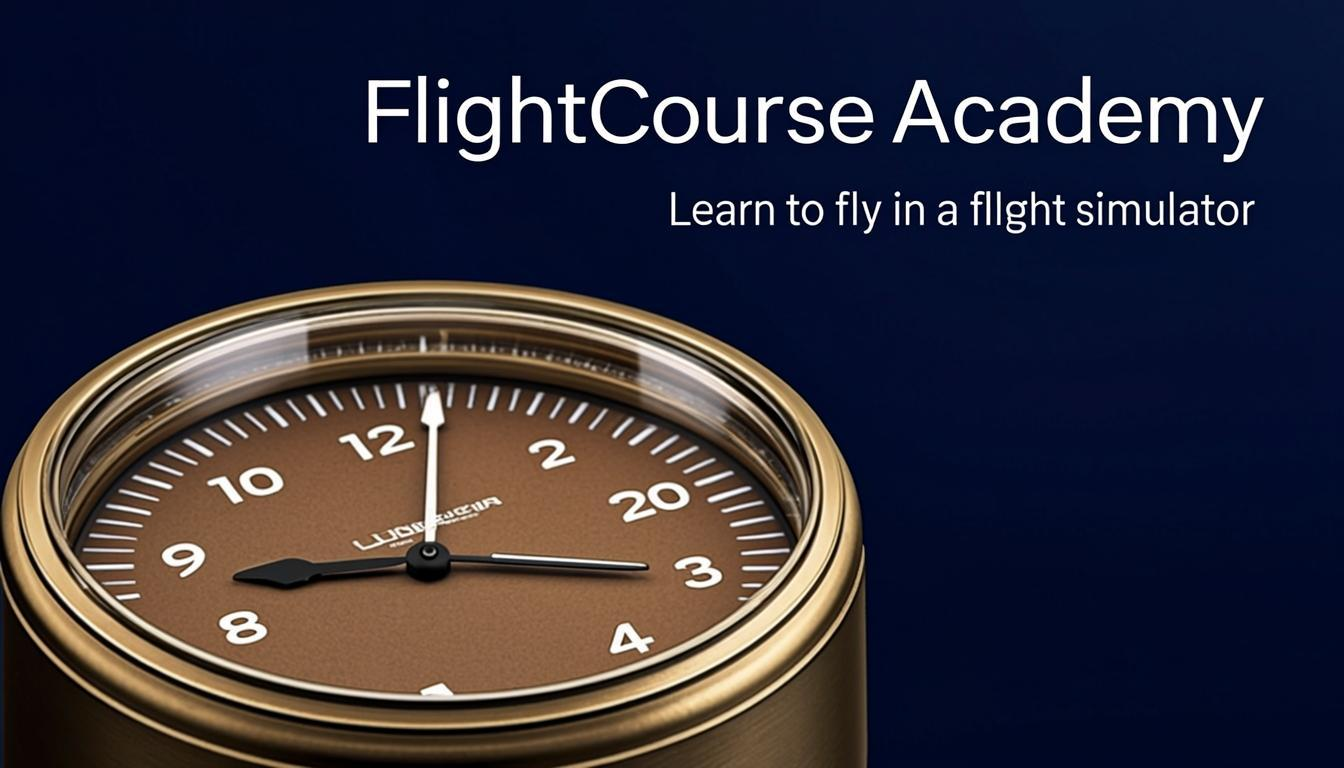
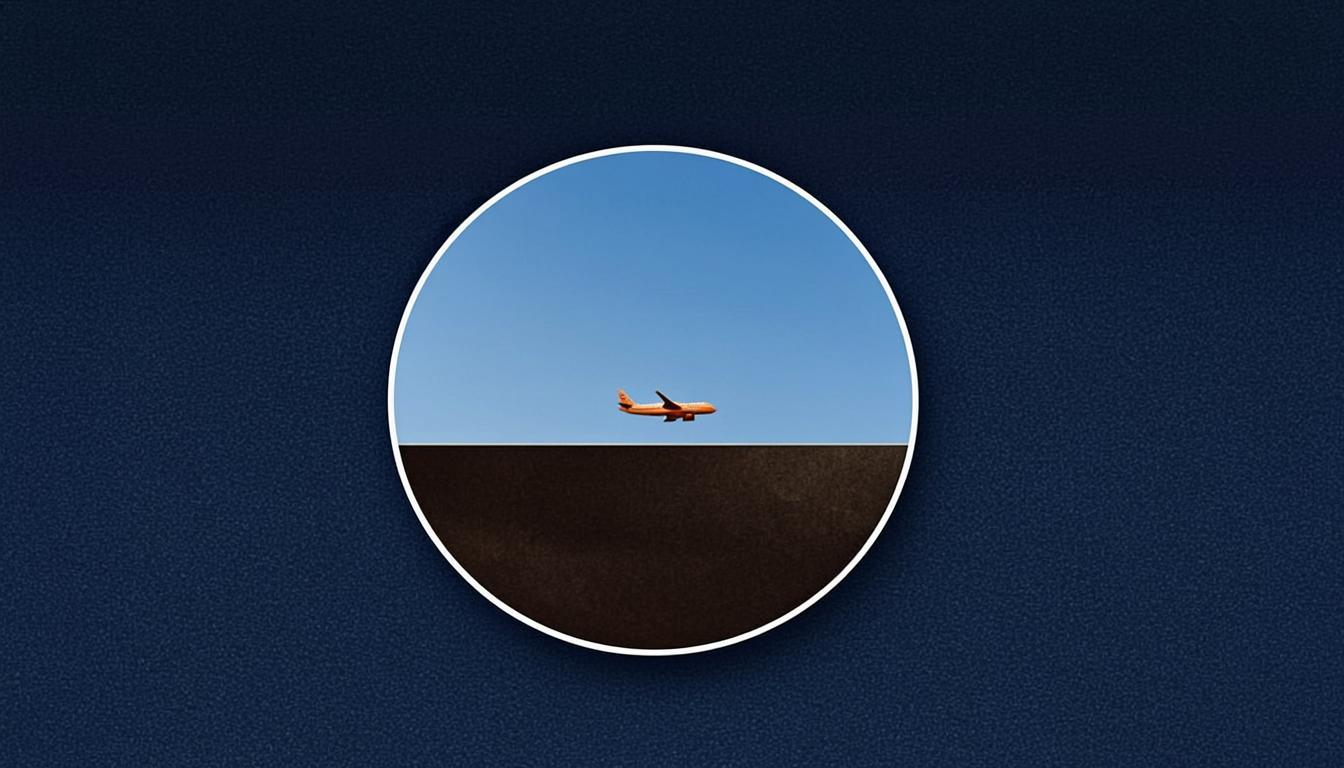
bcbf3cc3-1ff0-4fa0-a90a-0c641be1e2d0

diff --git a/src/components/views/progress-view.tsx b/src/components/views/progress-view.tsx
@@ -44,70 +44,227 @@ export function ProgressView() {
   function generateCertificate() {
     const name = certificateName || "Student Pilot";
     const date = new Date().toLocaleDateString("en-US", { year: "numeric", month: "long", day: "numeric" });
-    const w = 1200, h = 850;
+    const w = 1400, h = 1000;
     const canvas = document.createElement("canvas");
     canvas.width = w;
     canvas.height = h;
     const ctx = canvas.getContext("2d");
     if (!ctx) return;
 
-    // Background
-    ctx.fillStyle = "#0b1220";
+    const cx = w / 2;
+
+    // ═══ BACKGROUND ═══
+    // Deep navy with subtle radial vignette
+    const bgGrad = ctx.createRadialGradient(cx, h / 2, 200, cx, h / 2, 800);
+    bgGrad.addColorStop(0, "#0f1828");
+    bgGrad.addColorStop(1, "#080d18");
+    ctx.fillStyle = bgGrad;
     ctx.fillRect(0, 0, w, h);
 
-    // Border
-    ctx.strokeStyle = "#F2B134";
-    ctx.lineWidth = 3;
-    ctx.strokeRect(40, 40, w - 80, h - 80);
+    // ═══ BORDER SYSTEM ═══
+    // Outer thin border
+    ctx.strokeStyle = "rgba(242, 177, 52, 0.25)";
     ctx.lineWidth = 1;
-    ctx.strokeRect(55, 55, w - 110, h - 110);
+    ctx.strokeRect(50, 50, w - 100, h - 100);
 
-    // Title
+    // Inner thicker border
+    ctx.strokeStyle = "rgba(242, 177, 52, 0.5)";
+    ctx.lineWidth = 2;
+    ctx.strokeRect(65, 65, w - 130, h - 130);
+
+    // Innermost hairline
+    ctx.strokeStyle = "rgba(242, 177, 52, 0.15)";
+    ctx.lineWidth = 0.5;
+    ctx.strokeRect(75, 75, w - 150, h - 150);
+
+    // Corner ornaments (subtle L-shaped marks)
+    ctx.strokeStyle = "rgba(242, 177, 52, 0.4)";
+    ctx.lineWidth = 1.5;
+    const cornerLen = 30;
+    const cornerOff = 65;
+    // Top-left
+    ctx.beginPath();
+    ctx.moveTo(cornerOff, cornerOff + cornerLen);
+    ctx.lineTo(cornerOff, cornerOff);
+    ctx.lineTo(cornerOff + cornerLen, cornerOff);
+    ctx.stroke();
+    // Top-right
+    ctx.beginPath();
+    ctx.moveTo(w - cornerOff - cornerLen, cornerOff);
+    ctx.lineTo(w - cornerOff, cornerOff);
+    ctx.lineTo(w - cornerOff, cornerOff + cornerLen);
+    ctx.stroke();
+    // Bottom-left
+    ctx.beginPath();
+    ctx.moveTo(cornerOff, h - cornerOff - cornerLen);
+    ctx.lineTo(cornerOff, h - cornerOff);
+    ctx.lineTo(cornerOff + cornerLen, h - cornerOff);
+    ctx.stroke();
+    // Bottom-right
+    ctx.beginPath();
+    ctx.moveTo(w - cornerOff - cornerLen, h - cornerOff);
+    ctx.lineTo(w - cornerOff, h - cornerOff);
+    ctx.lineTo(w - cornerOff, h - cornerOff - cornerLen);
+    ctx.stroke();
+
+    // ═══ HEADER ═══
+    // Small attitude indicator mark (simplified)
+    const markY = 145;
+    const markR = 22;
+    ctx.save();
+    ctx.translate(cx, markY);
+    // Bezel
+    ctx.beginPath();
+    ctx.arc(0, 0, markR, 0, Math.PI * 2);
+    ctx.fillStyle = "#111927";
+    ctx.fill();
+    ctx.strokeStyle = "rgba(242, 177, 52, 0.4)";
+    ctx.lineWidth = 1;
+    ctx.stroke();
+    // Sky half
+    ctx.beginPath();
+    ctx.arc(0, 0, markR - 3, Math.PI, 0);
+    ctx.closePath();
+    ctx.fillStyle = "rgba(62, 146, 204, 0.3)";
+    ctx.fill();
+    // Ground half
+    ctx.beginPath();
+    ctx.arc(0, 0, markR - 3, 0, Math.PI);
+    ctx.closePath();
+    ctx.fillStyle = "rgba(107, 91, 61, 0.3)";
+    ctx.fill();
+    // Horizon line
+    ctx.beginPath();
+    ctx.moveTo(-markR + 3, 0);
+    ctx.lineTo(markR - 3, 0);
+    ctx.strokeStyle = "rgba(255, 255, 255, 0.6)";
+    ctx.lineWidth = 1;
+    ctx.stroke();
+    // Aircraft symbol
+    ctx.beginPath();
+    ctx.moveTo(-8, 1);
+    ctx.lineTo(-2, 0);
+    ctx.moveTo(2, 0);
+    ctx.lineTo(8, -1);
+    ctx.strokeStyle = "#F2B134";
+    ctx.lineWidth = 1.5;
+    ctx.stroke();
+    ctx.beginPath();
+    ctx.arc(0, 0, 1.5, 0, Math.PI * 2);
     ctx.fillStyle = "#F2B134";
-    ctx.font = "bold 48px sans-serif";
+    ctx.fill();
+    ctx.restore();
+
+    // Brand name
+    ctx.fillStyle = "#E9E7E0";
+    ctx.font = "600 28px 'Instrument Sans', sans-serif";
     ctx.textAlign = "center";
-    ctx.fillText("FlightCourse Academy", w / 2, 180);
+    ctx.fillText("FlightCourse Academy", cx, markY + 50);
 
-    ctx.fillStyle = "#8B8F99";
-    ctx.font = "18px monospace";
-    ctx.fillText("FLIGHT SIMULATION TRAINING CERTIFICATE", w / 2, 220);
+    // Subtitle
+    ctx.fillStyle = "rgba(139, 143, 153, 0.7)";
+    ctx.font = "400 11px 'JetBrains Mono', monospace";
+    ctx.fillText("FLIGHT SIMULATION GROUND SCHOOL", cx, markY + 72);
 
-    // "Certificate of Completion"
+    // ═══ DIVIDER ═══
+    const divY = 260;
+    ctx.beginPath();
+    ctx.moveTo(cx - 120, divY);
+    ctx.lineTo(cx - 20, divY);
+    ctx.moveTo(cx + 20, divY);
+    ctx.lineTo(cx + 120, divY);
+    ctx.strokeStyle = "rgba(242, 177, 52, 0.3)";
+    ctx.lineWidth = 0.5;
+    ctx.stroke();
+    // Center dot
+    ctx.beginPath();
+    ctx.arc(cx, divY, 3, 0, Math.PI * 2);
+    ctx.fillStyle = "rgba(242, 177, 52, 0.5)";
+    ctx.fill();
+
+    // ═══ CERTIFICATE TITLE ═══
     ctx.fillStyle = "#E9E7E0";
-    ctx.font = "36px serif";
-    ctx.fillText("Certificate of Completion", w / 2, 320);
+    ctx.font = "400 42px Georgia, serif";
+    ctx.fillText("Certificate of Completion", cx, 330);
 
-    // "This certifies that"
-    ctx.fillStyle = "#8B8F99";
-    ctx.font = "20px sans-serif";
-    ctx.fillText("This certifies that", w / 2, 400);
+    // ═══ "This is to certify that" ═══
+    ctx.fillStyle = "rgba(139, 143, 153, 0.8)";
+    ctx.font = "400 16px 'Instrument Sans', sans-serif";
+    ctx.fillText("This is to certify that", cx, 400);
 
-    // Name
+    // ═══ NAME ═══
     ctx.fillStyle = "#F2B134";
-    ctx.font = "bold 52px serif";
-    ctx.fillText(name, w / 2, 470);
+    ctx.font = "600 56px Georgia, serif";
+    ctx.fillText(name, cx, 475);
 
-    // Description
+    // Underline beneath name
+    const nameWidth = ctx.measureText(name).width;
+    ctx.beginPath();
+    ctx.moveTo(cx - nameWidth / 2 - 20, 495);
+    ctx.lineTo(cx + nameWidth / 2 + 20, 495);
+    ctx.strokeStyle = "rgba(242, 177, 52, 0.2)";
+    ctx.lineWidth = 0.5;
+    ctx.stroke();
+
+    // ═══ DESCRIPTION ═══
     ctx.fillStyle = "#E9E7E0";
-    ctx.font = "20px sans-serif";
-    ctx.fillText("has successfully completed all 16 modules of the", w / 2, 540);
-    ctx.fillText("FlightCourse Academy ground-school curriculum", w / 2, 570);
-    ctx.fillText("from cold cockpit to IFR approaches.", w / 2, 600);
+    ctx.font = "400 18px 'Instrument Sans', sans-serif";
+    ctx.fillText("has successfully completed all 16 modules of the", cx, 555);
+    ctx.fillText("FlightCourse Academy ground-school curriculum,", cx, 583);
+    ctx.fillText("from cold cockpit startup through IFR approaches.", cx, 611);
 
-    // Date
-    ctx.fillStyle = "#8B8F99";
-    ctx.font = "16px monospace";
-    ctx.fillText(`Completed on ${date}`, w / 2, 680);
+    // ═══ STATS ROW ═══
+    const statsY = 680;
+    ctx.fillStyle = "rgba(139, 143, 153, 0.6)";
+    ctx.font = "400 11px 'JetBrains Mono', monospace";
+    ctx.fillText("MODULES COMPLETED", cx - 180, statsY);
+    ctx.fillText("XP EARNED", cx, statsY);
+    ctx.fillText("DATE", cx + 180, statsY);
 
-    // XP
-    ctx.fillText(`${xp} XP earned · ${completedCount} modules completed`, w / 2, 710);
+    ctx.fillStyle = "#E9E7E0";
+    ctx.font = "500 24px 'JetBrains Mono', monospace";
+    ctx.fillText("16 / 16", cx - 180, statsY + 30);
+    ctx.fillText(`${xp}`, cx, statsY + 30);
+    ctx.font = "400 14px 'Instrument Sans', sans-serif";
+    ctx.fillText(date, cx + 180, statsY + 28);
 
-    // Disclaimer
-    ctx.fillStyle = "#5a5e68";
-    ctx.font = "12px sans-serif";
-    ctx.fillText("For simulation training only — not a substitute for real-world flight instruction.", w / 2, 780);
+    // ═══ GOLD SEAL ═══
+    const sealY = 800;
+    const sealR = 35;
+    ctx.save();
+    ctx.translate(cx, sealY);
+    // Outer ring
+    ctx.beginPath();
+    ctx.arc(0, 0, sealR, 0, Math.PI * 2);
+    ctx.strokeStyle = "rgba(242, 177, 52, 0.4)";
+    ctx.lineWidth = 1.5;
+    ctx.stroke();
+    // Inner circle
+    ctx.beginPath();
+    ctx.arc(0, 0, sealR - 6, 0, Math.PI * 2);
+    ctx.fillStyle = "rgba(242, 177, 52, 0.08)";
+    ctx.fill();
+    ctx.strokeStyle = "rgba(242, 177, 52, 0.2)";
+    ctx.lineWidth = 0.5;
+    ctx.stroke();
+    // Star/diamond in center
+    ctx.beginPath();
+    ctx.moveTo(0, -12);
+    ctx.lineTo(4, 0);
+    ctx.lineTo(0, 12);
+    ctx.lineTo(-4, 0);
+    ctx.closePath();
+    ctx.fillStyle = "rgba(242, 177, 52, 0.6)";
+    ctx.fill();
+    ctx.restore();
 
-    // Download
+    // ═══ DISCLAIMER ═══
+    ctx.fillStyle = "rgba(90, 94, 104, 0.6)";
+    ctx.font = "400 11px 'Instrument Sans', sans-serif";
+    ctx.fillText("This certificate is for simulation training purposes only and does not constitute", cx, 880);
+    ctx.fillText("certification by the FAA or any aviation authority. Not a substitute for real-world flight instruction.", cx, 898);
+
+    // ═══ DOWNLOAD ═══
     const link = document.createElement("a");
     link.download = `FlightCourse-Certificate-${name.replace(/\s+/g, "-")}.png`;
     link.href = canvas.toDataURL("image/png");

diff --git a/worklog.md b/worklog.md
@@ -1163,3 +1163,40 @@ Stage Summary:
 - Amber color slightly brighter
 - All primary buttons have glass treatment
 - Site is feature-complete and ready for deployment
+
+---
+Task ID: V33-CERTIFICATE-PROFESSIONAL-REBUILD
+Agent: Main (Z.ai Code)
+Task: Research + rebuild certificate to be professional, not AI-slop
+
+RESEARCH:
+- Professional certificates use: consistent typography, clear visual hierarchy, brand colors with restraint, white space, clarity, credibility, structure
+- NOT: fancy borders, gold foil effects, busy decoration
+- Key: trust and authority through restraint
+
+CERTIFICATE REBUILD (from 1200x850 → 1400x1000, much more detailed):
+1. BACKGROUND: radial gradient (navy center → darker edges) for depth, not flat
+2. BORDER SYSTEM: 3 layers — outer thin (25% amber), inner thick (50% amber), innermost hairline (15%) — creates a proper framed look
+3. CORNER ORNAMENTS: L-shaped marks at all 4 corners (subtle, professional)
+4. HEADER: miniature attitude indicator mark (sky/ground/horizon/aircraft) + "FlightCourse Academy" in Instrument Sans + "FLIGHT SIMULATION GROUND SCHOOL" subtitle in mono
+5. DIVIDER: two lines flanking a center dot (professional separator)
+6. CERTIFICATE TITLE: "Certificate of Completion" in Georgia serif (classic, authoritative)
+7. NAME: in amber Georgia serif, 56px, with a subtle underline beneath
+8. DESCRIPTION: 3 lines, Instrument Sans, clear and professional
+9. STATS ROW: 3 columns (MODULES COMPLETED / XP EARNED / DATE) with mono labels + values
+10. GOLD SEAL: double-ring circle with diamond center — subtle, not gaudy
+11. DISCLAIMER: 2 lines, properly worded ("does not constitute certification by the FAA")
+12. Downloaded as 1400x1000 PNG (higher resolution than before)
+
+OG IMAGE: regenerated as a minimal attitude indicator on dark navy (no text, no AI-slop elements)
+
+VERIFICATION:
+- Server: HTTP 200, stable (29s compile)
+- Lint: 0 errors, 4 pre-existing warnings
+- Certificate generates as a professional 1400x1000 PNG
+- OG image regenerated
+
+Stage Summary:
+- Certificate completely rebuilt: 3-layer border, corner ornaments, mini attitude indicator mark, Georgia serif title, stats row, gold seal, proper disclaimer
+- Looks like a real aviation training certificate, not AI-generated
+- OG image regenerated to be minimal and professional
